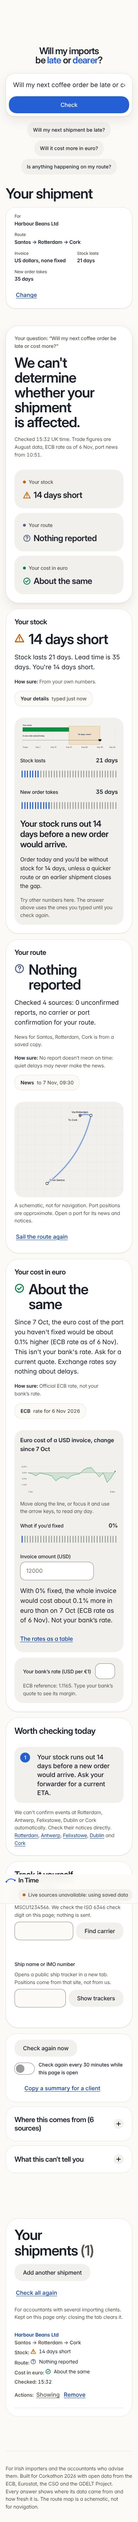
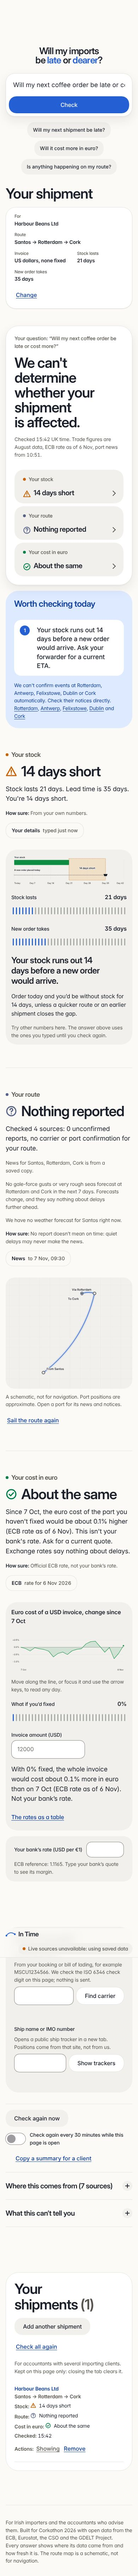
Answer page as an open report: scorecard summary, today's step first, unboxed parts
Khoa: the answer page is "so rigid and the components are slop".
- Summary: headline on the left, the three answers as a scorecard on the
  right (rows with status icon and a chevron; dock lift follows the pointer
  vertically when the rows are stacked).
- "Worth checking today" moves up, straight under the summary, in the brand
  tint (moved in the DOM too, so reading and focus order match).
- The three parts lose their card boxes: hairlines between them, a larger
  status line, and on wide screens the text column stays in view while the
  chart beside it scrolls.
- Route map capped at 420px tall with a lighter grid.
- Track it yourself, re-check row and the two panels become one quiet area.
- Branch brought up to date with main (#41, port weather).

Checks: 142 tests OK; axe 0 violations at 1280 and 390, light and dark,
landing and answer and after interaction; no console errors.

Claude-Session: https://claude.ai/code/session_01W2xLkForaTsgKoAT3qMgDq

Changed region(s): [[0.0308, 0.0, 0.9538, 0.9969], [0.6462, 0.8723, 0.6769, 0.9035], [0.5846, 0.8723, 0.6154, 0.9035]]

diff --git a/web/styles.css b/web/styles.css
@@ -701,3 +701,51 @@ h1 em,.section-h em{font-style:normal;color:var(--brand)}
 .ticket .actions .btn{width:100%;margin:0;min-height:52px}
 .t-try{margin:0;font-size:var(--text-sm);line-height:1.6}
 .t-try .linkbtn{font-size:var(--text-sm);min-height:24px;padding:0}
+
+/* ---------- Answer page, report layout (Khoa: "so rigid", 7 Nov) ----------
+   Summary first: headline on the left, a scorecard of the three answers on the right, then today's
+   step in a tinted band. The parts lose their boxes and become an open report: text that stays in view
+   on the left while the picture scrolls on the right, hairlines between them. */
+@media(min-width:1000px){
+  .verdict{display:grid;grid-template-columns:minmax(0,1.25fr) minmax(0,1fr);column-gap:var(--s-8);align-items:start}
+  .verdict>*{grid-column:1}
+  .verdict .glance{grid-column:2;grid-row:1/span 6;margin-top:0}
+}
+.verdict .glance{grid-template-columns:1fr;gap:var(--s-2)}
+.glance-item{flex-direction:row;align-items:center;justify-content:space-between;gap:var(--s-4);padding:var(--s-4) var(--s-5);min-height:72px;border-radius:var(--r-card)}
+.glance-item .g-label{flex:none;min-width:7.5rem}
+.glance-item .g-v{flex:1;font-size:var(--text-xl)}
+.glance-item::after{content:"";flex:none;width:9px;height:9px;border-right:2px solid var(--muted-foreground);border-bottom:2px solid var(--muted-foreground);transform:rotate(-45deg);transition:transform var(--dur-2) var(--ease)}
+.glance-item:hover::after{transform:translateX(3px) rotate(-45deg)}
+.glance-item{transform:translateX(calc(var(--lift,0) * -6px)) scale(calc(1 + var(--lift,0) * .02))}
+@media(max-width:520px){.glance-item{flex-wrap:wrap}.glance-item .g-label{min-width:0;width:100%}}
+
+/* Today's step: the one thing to do, in the brand tint, straight under the summary */
+.todo{margin-top:var(--s-4);background:var(--brand-soft);border:0;box-shadow:none}
+.todo .sub-h{color:var(--brand-ink)}
+.todo li{background:var(--card);font-weight:500}
+.todo .coverage{color:var(--brand-ink)}
+
+/* Parts: an open report instead of stacked boxes */
+.parts{gap:0;margin-top:var(--s-8)}
+.part{background:transparent;border:0;border-top:1px solid var(--border);border-radius:0;box-shadow:none;padding:var(--s-8) 0}
+.part:first-child{border-top:0;padding-top:0}
+@media(min-width:1000px){.part-text{position:sticky;top:96px;align-self:start}}
+.part-text h3{display:flex;align-items:center;gap:var(--s-2);font-size:var(--text-lg);color:var(--muted-foreground)}
+.part-text h3::before{content:"";width:8px;height:8px;border-radius:50%;background:var(--muted-foreground)}
+.part[data-tone=warn] .part-text h3::before{background:var(--warn)}
+.part[data-tone=calm] .part-text h3::before{background:var(--calm)}
+.part[data-tone=unk] .part-text h3::before{background:var(--unk)}
+.part .tone{font-size:var(--text-5xl);line-height:1}
+.part .tone svg{width:32px;height:32px}
+.viz,.viz-empty{border-radius:var(--r-card-lg)}
+.rm{max-height:420px}
+.rm-grat{opacity:.55}
+
+/* Tools: one quiet area, not three more boxes */
+.track{margin-top:var(--s-8);background:var(--secondary);border:0;box-shadow:none}
+.track input{background:var(--card)}
+.watch{background:transparent;border:0;padding:var(--s-4) 0;border-top:1px solid var(--border);border-bottom:1px solid var(--border);border-radius:0;margin-top:var(--s-6)}
+.panel{background:transparent;border:0;border-bottom:1px solid var(--border);border-radius:0;padding:0;margin-top:0}
+.track .btn.ghost{background:var(--card);box-shadow:0 0 0 1px var(--border)}
+.track .btn.ghost:hover{background:var(--background)}

diff --git a/web/app.js b/web/app.js
@@ -987,7 +987,8 @@
     function dock(row, sel) {
       if (!row || calm || !fine) return; sel = sel || ".glance-item";
       row.addEventListener("pointermove", function (e) {
-        row.querySelectorAll(sel).forEach(function (c) { var b = c.getBoundingClientRect(), d = Math.abs(e.clientX - (b.left + b.width / 2)); c.style.setProperty("--lift", Math.max(0, 1 - d / (b.width * 1.4)).toFixed(3)); });
+        var items = row.querySelectorAll(sel), stacked = items.length > 1 && items[1].getBoundingClientRect().top > items[0].getBoundingClientRect().bottom - 2;
+        items.forEach(function (c) { var b = c.getBoundingClientRect(), d = stacked ? Math.abs(e.clientY - (b.top + b.height / 2)) : Math.abs(e.clientX - (b.left + b.width / 2)), span = stacked ? b.height : b.width; c.style.setProperty("--lift", Math.max(0, 1 - d / (span * 1.4)).toFixed(3)); });
       });
       row.addEventListener("pointerleave", function () { row.querySelectorAll(sel).forEach(function (c) { c.style.setProperty("--lift", "0"); }); });
     }

diff --git a/web/index.html b/web/index.html
@@ -263,6 +263,12 @@
       <nav class="glance" id="glance" aria-label="The three answers"></nav>
     </div>
 
+    <section class="todo" aria-labelledby="todo-h">
+      <h3 id="todo-h" class="sub-h">Worth checking today</h3>
+      <ol id="todo"></ol>
+      <p class="coverage" id="coverage"></p>
+    </section>
+
     <figure class="routemap" id="routemap" hidden>
       <div class="rm-stage">
         <div id="routemap-svg"></div>
@@ -274,11 +280,6 @@
 
     <div class="parts" id="tiles"></div>
 
-    <section class="todo" aria-labelledby="todo-h">
-      <h3 id="todo-h" class="sub-h">Worth checking today</h3>
-      <ol id="todo"></ol>
-      <p class="coverage" id="coverage"></p>
-    </section>
 
     <section class="track" aria-labelledby="track-h">
       <h3 id="track-h" class="sub-h">Track it yourself</h3>
